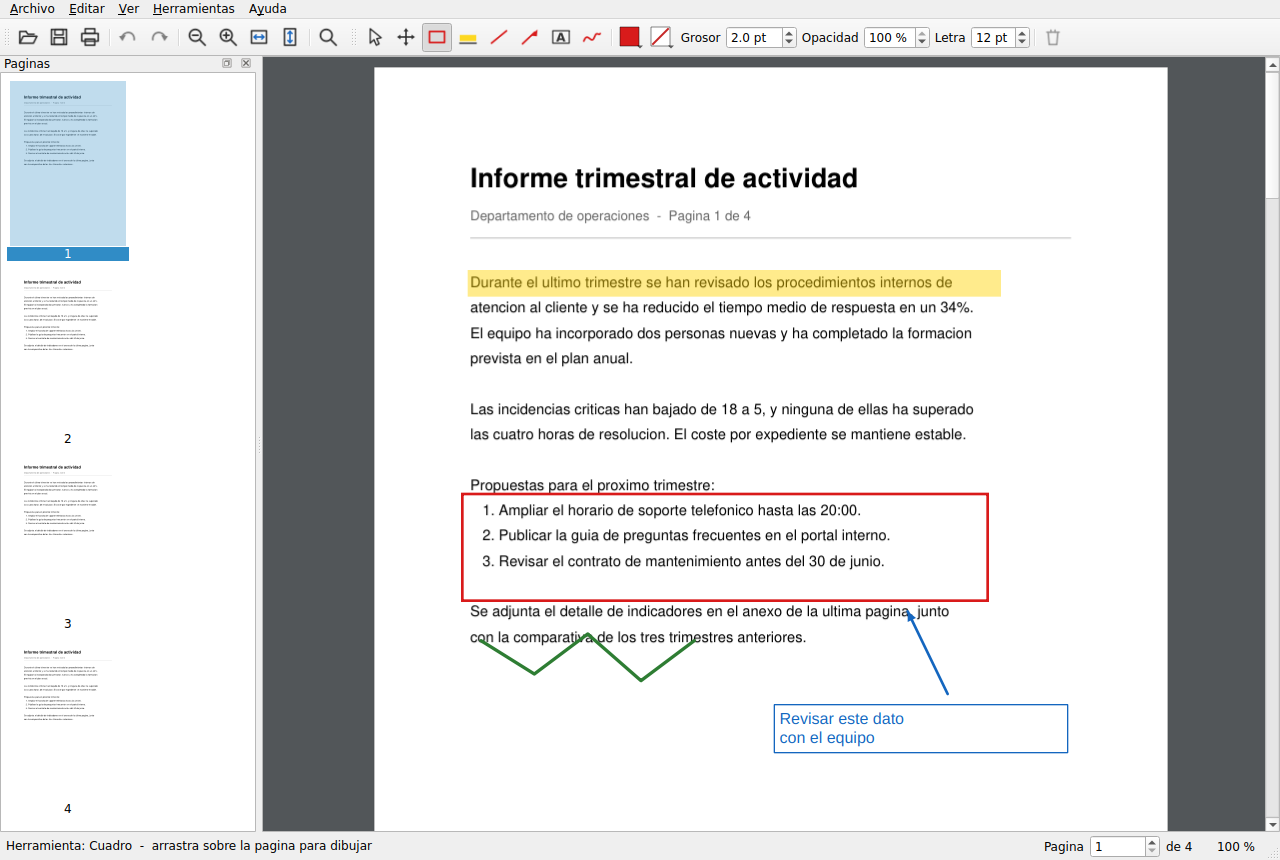
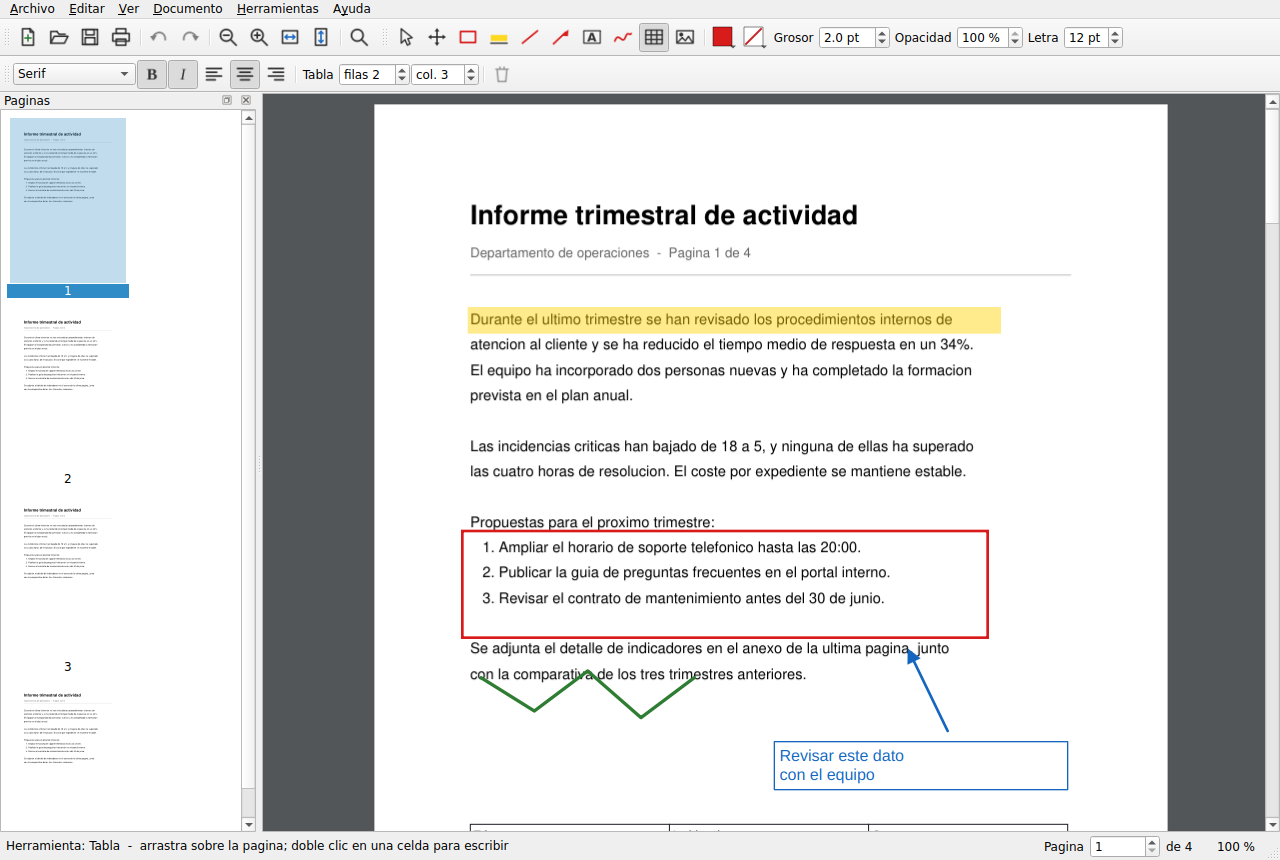
Split the toolbar over two rows
With the new tools (table, image) and the style settings (typeface, bold,
italic, alignment, rows and columns) the toolbar overflowed on ordinary
screens and the "more" button appeared. The style settings move to a row of
their own.

The screenshot is regenerated with the new toolbar and an example table.

diff --git a/tools/make_screenshot.py b/tools/make_screenshot.py
@@ -77,6 +77,7 @@ def main() -> int:
         app = QApplication.instance() or QApplication([])
         window = MainWindow()
         window.resize(1280, 860)
+        window.thumb_dock.setVisible(True)   # la captura siempre lo muestra
         window.show()
         QTest.qWaitForWindowExposed(window)
         window.open_path(muestra)
@@ -97,14 +98,20 @@ def main() -> int:
             Annotation(kind=Kind.INK, page=0,
                        strokes=[[(80, 430), (120, 455), (160, 425), (200, 460), (240, 430)]],
                        color=(0.18, 0.49, 0.20), width=2.5),
+            Annotation(kind=Kind.TABLE, page=0, rect=(72, 540, 520, 620), rows=3, cols=3,
+                       cells=["Trimestre", "Incidencias", "Coste",
+                              "Anterior", "18", "4.200 EUR",
+                              "Actual", "5", "3.950 EUR"],
+                       color=(0.15, 0.15, 0.18), width=0.8, font_size=9),
         ]
         for ann in anotaciones:
             window.view.add_annotation(ann, undoable=False)
 
-        window.select_tool(Tool.RECT)
+        window.select_tool(Tool.TABLE)
         window._update_actions()
         window.statusBar().showMessage(
-            "Herramienta: Cuadro  -  arrastra sobre la pagina para dibujar"
+            "Herramienta: Tabla  -  arrastra sobre la pagina; doble clic en una celda "
+            "para escribir"
         )
         QTest.qWait(800)
         app.processEvents()

diff --git a/src/easypdf/ui/main_window.py b/src/easypdf/ui/main_window.py
@@ -477,7 +477,18 @@ class MainWindow(QMainWindow):
         self.font_spin.valueChanged.connect(self._set_font_size)
         tools.addWidget(self.font_spin)
 
-        tools.addSeparator()
+        self.addToolBar(tools)
+        self.toolbar_tools = tools
+
+        # Los ajustes de estilo van en su propia fila: si no, la barra se
+        # desborda en pantallas normales y aparece el boton de "mas".
+        estilo = QToolBar("Estilo", self)
+        estilo.setObjectName("toolbar_style")
+        estilo.setIconSize(QSize(22, 22))
+        self.addToolBarBreak(Qt.TopToolBarArea)
+        self.addToolBar(estilo)
+        self.toolbar_style = estilo
+        tools = estilo
 
         self.font_combo = QComboBox(self)
         for familia in (Font.SANS, Font.SERIF, Font.MONO):
@@ -534,8 +545,6 @@ class MainWindow(QMainWindow):
 
         tools.addSeparator()
         tools.addAction(self.act_delete)
-        self.addToolBar(tools)
-        self.toolbar_tools = tools
 
         self._create_search_bar()
 
